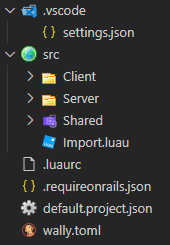
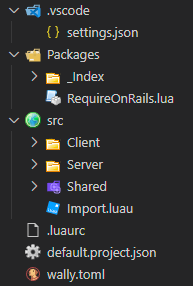
Swapped out image in readme

Changed region(s): [[0.0294, 0.0, 0.9118, 1.0], [0.1471, 0.5429, 0.2059, 0.6]]

diff --git a/README.md b/README.md
@@ -63,10 +63,11 @@ your-project/
 ├── default.project.json
 └── wally.toml
 ```
+Your project will likely look something like this:
+
 ![ProjectTemplateScreenshot](images/ReadMe/ProjectTemplateScreenshot.png)
 
-If your project structure does not follow this then you can configure the extension settings to
-match your project.
+If your project structure does not follow this exactly then you can configure the extension settings to match your project as needed.
 
 ## Quick Start
 
